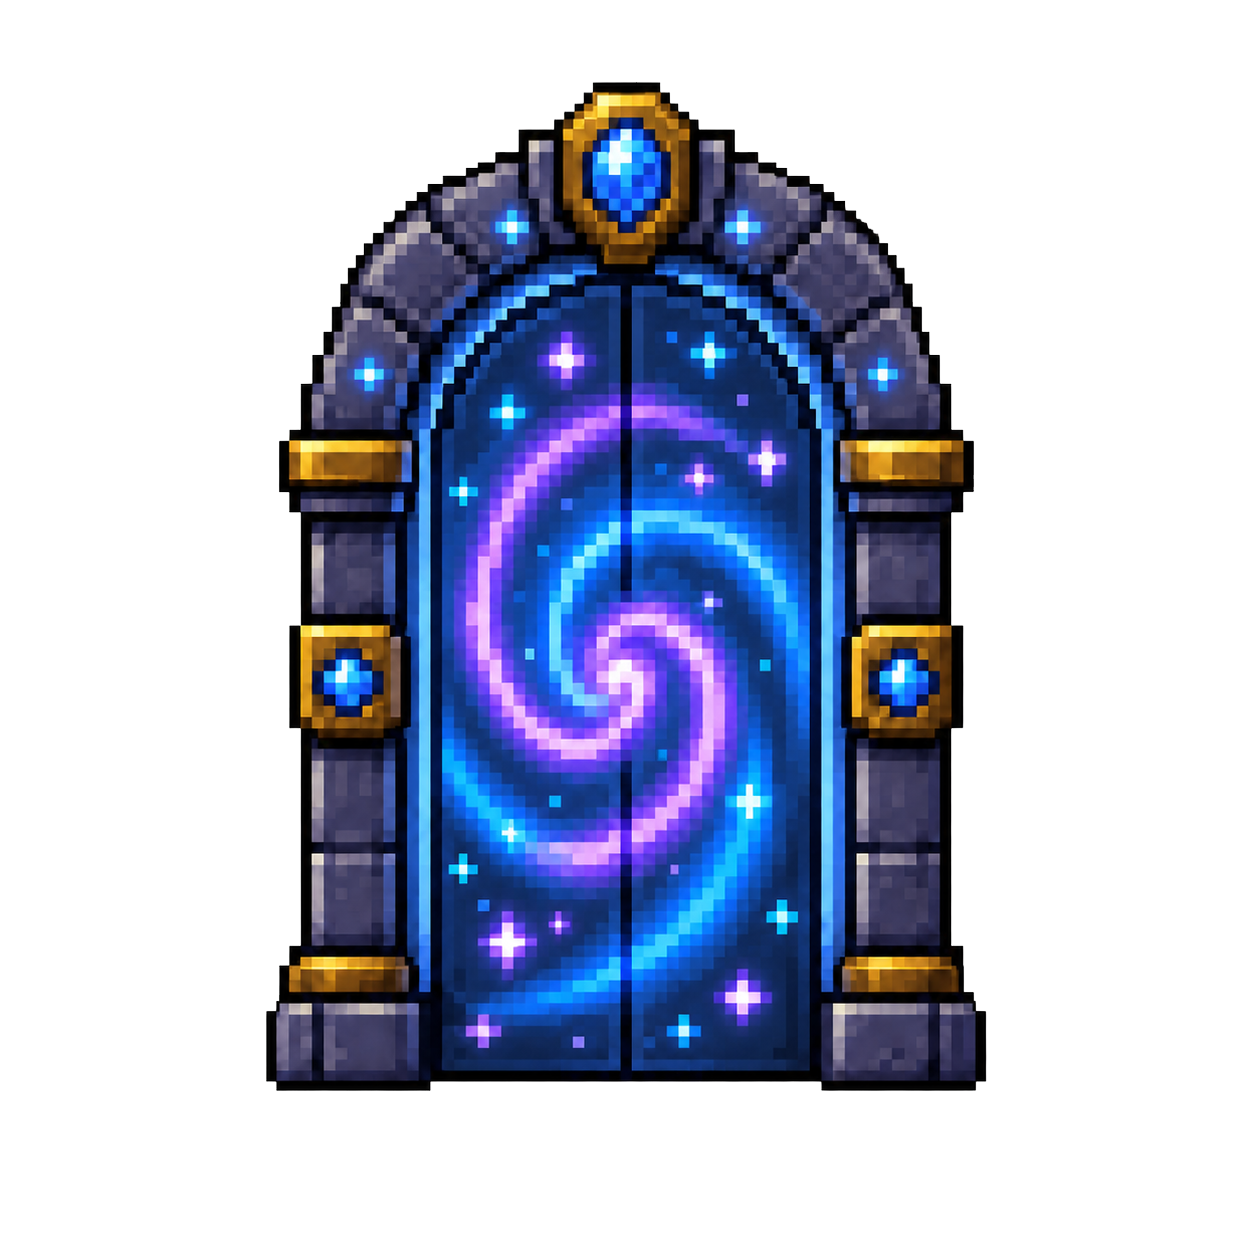
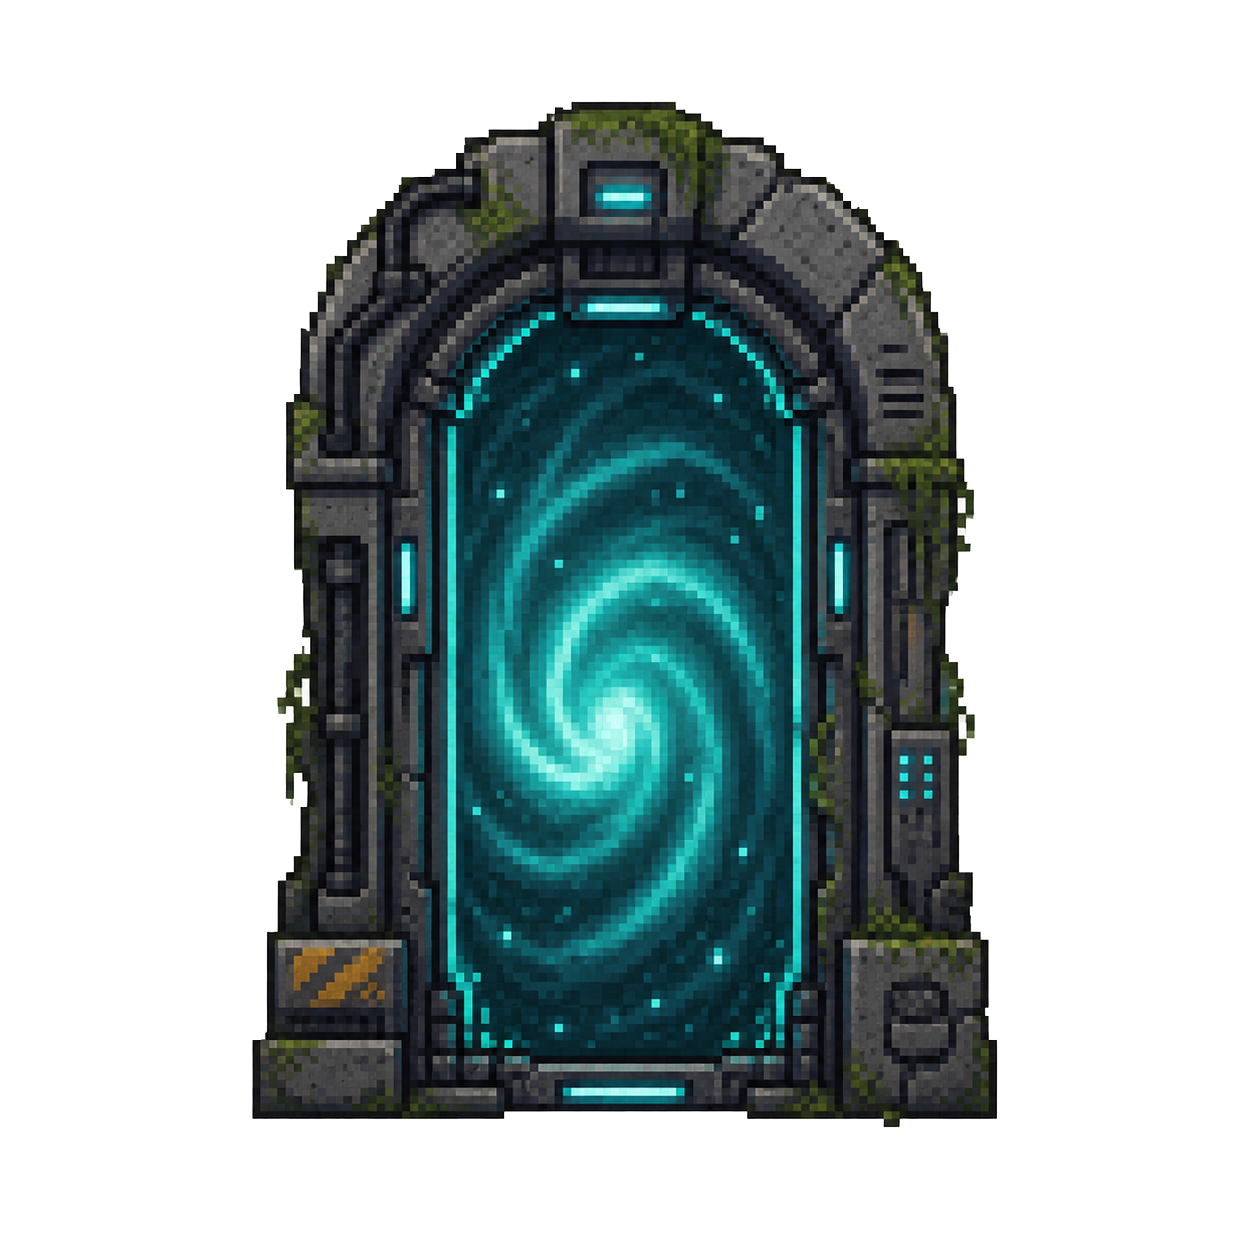
Tune boss fight entry and portal assets

diff --git a/src/bulletdrift/entities/Boss.java b/src/bulletdrift/entities/Boss.java
@@ -14,18 +14,19 @@ public class Boss {
     public static final int MAX_HEALTH = 500;
     public static final int PROJECTILE_DAMAGE = 10;
 
-    private static final int BASE_SIZE = 340;
-    private static final int TOP_MARGIN = 80;
-    private static final double HITBOX_SCALE = 0.76;
+    private static final int BASE_SIZE = 430;
+    private static final int TOP_MARGIN = 0;
+    private static final double HITBOX_SCALE = 0.84;
     private static final int REFERENCE_PANEL_WIDTH = 1920;
     private static final int REFERENCE_PANEL_HEIGHT = 1080;
     private static final int HEALTH_BAR_WIDTH = 920;
     private static final int HEALTH_BAR_HEIGHT = 30;
     private static final int HEALTH_BAR_BOTTOM_MARGIN = 55;
-    private static final int PROJECTILE_SPAWN_OFFSET_Y = 95;
+    private static final int PROJECTILE_SPAWN_OFFSET_Y = 125;
     private static final int PROJECTILE_SPEED = 12;
     private static final int HORIZONTAL_SPEED = 4;
     private static final long SHOOT_INTERVAL_MS = 900;
+    private static final long INITIAL_SHOOT_DELAY_MS = 3000;
 
     private int x;
     private int y;
@@ -44,7 +45,7 @@ public class Boss {
         this.bossImage = new ImageIcon("src/Files/Enemies/Boss.png").getImage();
         this.projectiles = new ArrayList<>();
         this.direction = 1;
-        this.lastShootTime = 0;
+        this.lastShootTime = System.currentTimeMillis() + INITIAL_SHOOT_DELAY_MS - SHOOT_INTERVAL_MS;
     }
 
     public void update(int panelWidth, int panelHeight) {

diff --git a/src/bulletdrift/entities/Player.java b/src/bulletdrift/entities/Player.java
@@ -19,6 +19,7 @@ public class Player extends JPanel {
     private static final int RAPID_SHOOT_COOLDOWN_MS = 120;
     private static final int DEFAULT_PANEL_WIDTH = 800;
     private static final int DEFAULT_PANEL_HEIGHT = 600;
+    private static final double BOSS_FIGHT_START_Y_RATIO = 0.78;
     private static final double HITBOX_WIDTH_SCALE = 0.58;
     private static final double HITBOX_HEIGHT_SCALE = 0.70;
     private static final int PROJECTILE_SPAWN_OFFSET = 5;
@@ -488,7 +489,7 @@ public class Player extends JPanel {
         pressedKeys.clear();
         lastShootTime = 0;
         x = (panelWidth - width) / 2;
-        y = (panelHeight - height) / 2;
+        y = Math.min(panelHeight - height, (int) (panelHeight * BOSS_FIGHT_START_Y_RATIO));
         setDirection(false, false, false, true);
     }
 